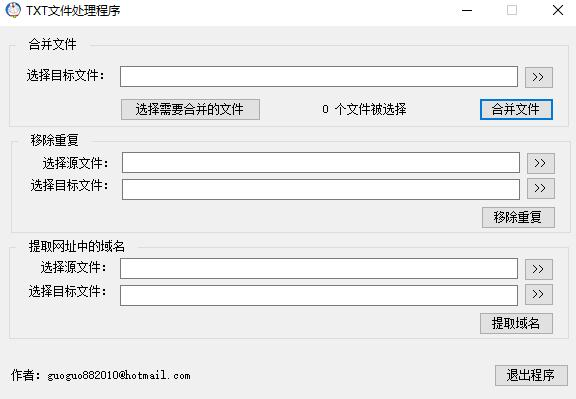
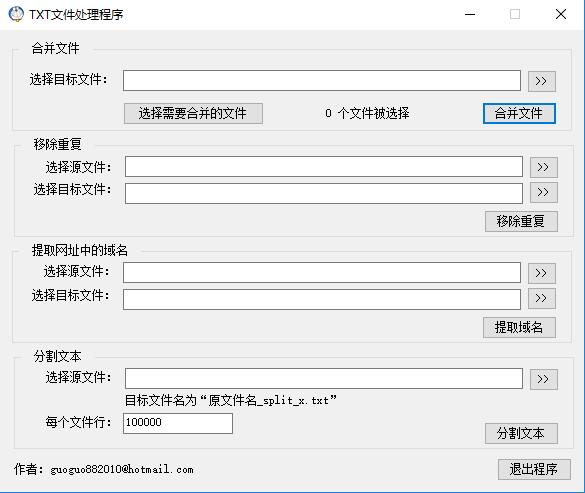
add function

diff --git a/TXTFileHandleTools/Form1.Designer.cs b/TXTFileHandleTools/Form1.Designer.cs
@@ -54,9 +54,18 @@
             this.DomainButton = new System.Windows.Forms.Button();
             this.label6 = new System.Windows.Forms.Label();
             this.DomainTargetTextBox = new System.Windows.Forms.TextBox();
+            this.groupBox4 = new System.Windows.Forms.GroupBox();
+            this.SplitSourceTextBox = new System.Windows.Forms.TextBox();
+            this.SplitSourceButton = new System.Windows.Forms.Button();
+            this.label2 = new System.Windows.Forms.Label();
+            this.SplitButton = new System.Windows.Forms.Button();
+            this.label8 = new System.Windows.Forms.Label();
+            this.label9 = new System.Windows.Forms.Label();
+            this.SplitLineTextBox = new System.Windows.Forms.TextBox();
             this.groupBox1.SuspendLayout();
             this.groupBox2.SuspendLayout();
             this.groupBox3.SuspendLayout();
+            this.groupBox4.SuspendLayout();
             this.SuspendLayout();
             // 
             // groupBox1
@@ -213,7 +222,7 @@
             // label3
             // 
             this.label3.AutoSize = true;
-            this.label3.Location = new System.Drawing.Point(12, 343);
+            this.label3.Location = new System.Drawing.Point(12, 433);
             this.label3.Name = "label3";
             this.label3.Size = new System.Drawing.Size(185, 12);
             this.label3.TabIndex = 2;
@@ -221,7 +230,7 @@
             // 
             // ExitAppButton
             // 
-            this.ExitAppButton.Location = new System.Drawing.Point(497, 338);
+            this.ExitAppButton.Location = new System.Drawing.Point(497, 428);
             this.ExitAppButton.Name = "ExitAppButton";
             this.ExitAppButton.Size = new System.Drawing.Size(75, 23);
             this.ExitAppButton.TabIndex = 3;
@@ -309,11 +318,90 @@
             this.DomainTargetTextBox.TabIndex = 14;
             this.DomainTargetTextBox.TextChanged += new System.EventHandler(this.DomainTargetTextBox_TextChanged);
             // 
+            // groupBox4
+            // 
+            this.groupBox4.Controls.Add(this.SplitLineTextBox);
+            this.groupBox4.Controls.Add(this.label9);
+            this.groupBox4.Controls.Add(this.SplitSourceTextBox);
+            this.groupBox4.Controls.Add(this.SplitSourceButton);
+            this.groupBox4.Controls.Add(this.label2);
+            this.groupBox4.Controls.Add(this.SplitButton);
+            this.groupBox4.Controls.Add(this.label8);
+            this.groupBox4.Location = new System.Drawing.Point(14, 320);
+            this.groupBox4.Name = "groupBox4";
+            this.groupBox4.Size = new System.Drawing.Size(560, 100);
+            this.groupBox4.TabIndex = 5;
+            this.groupBox4.TabStop = false;
+            this.groupBox4.Text = "　分割文本　";
+            // 
+            // SplitSourceTextBox
+            // 
+            this.SplitSourceTextBox.Location = new System.Drawing.Point(111, 18);
+            this.SplitSourceTextBox.Name = "SplitSourceTextBox";
+            this.SplitSourceTextBox.Size = new System.Drawing.Size(398, 21);
+            this.SplitSourceTextBox.TabIndex = 13;
+            // 
+            // SplitSourceButton
+            // 
+            this.SplitSourceButton.Location = new System.Drawing.Point(515, 18);
+            this.SplitSourceButton.Name = "SplitSourceButton";
+            this.SplitSourceButton.Size = new System.Drawing.Size(30, 23);
+            this.SplitSourceButton.TabIndex = 12;
+            this.SplitSourceButton.Text = ">>";
+            this.SplitSourceButton.UseVisualStyleBackColor = true;
+            this.SplitSourceButton.Click += new System.EventHandler(this.SplitSourceButton_Click);
+            // 
+            // label2
+            // 
+            this.label2.AutoSize = true;
+            this.label2.Location = new System.Drawing.Point(30, 21);
+            this.label2.Name = "label2";
+            this.label2.Size = new System.Drawing.Size(77, 12);
+            this.label2.TabIndex = 10;
+            this.label2.Text = "选择源文件：";
+            // 
+            // SplitButton
+            // 
+            this.SplitButton.Location = new System.Drawing.Point(470, 72);
+            this.SplitButton.Name = "SplitButton";
+            this.SplitButton.Size = new System.Drawing.Size(75, 23);
+            this.SplitButton.TabIndex = 15;
+            this.SplitButton.Text = "分割文本";
+            this.SplitButton.UseVisualStyleBackColor = true;
+            this.SplitButton.Click += new System.EventHandler(this.SplitButton_Click);
+            // 
+            // label8
+            // 
+            this.label8.AutoSize = true;
+            this.label8.Location = new System.Drawing.Point(30, 66);
+            this.label8.Name = "label8";
+            this.label8.Size = new System.Drawing.Size(77, 12);
+            this.label8.TabIndex = 11;
+            this.label8.Text = "每个文件行：";
+            // 
+            // label9
+            // 
+            this.label9.AutoSize = true;
+            this.label9.Location = new System.Drawing.Point(109, 44);
+            this.label9.Name = "label9";
+            this.label9.Size = new System.Drawing.Size(221, 12);
+            this.label9.TabIndex = 16;
+            this.label9.Text = "目标文件名为“原文件名_split_x.txt”";
+            // 
+            // SplitLineTextBox
+            // 
+            this.SplitLineTextBox.Location = new System.Drawing.Point(109, 63);
+            this.SplitLineTextBox.Name = "SplitLineTextBox";
+            this.SplitLineTextBox.Size = new System.Drawing.Size(110, 21);
+            this.SplitLineTextBox.TabIndex = 17;
+            this.SplitLineTextBox.Text = "100000";
+            // 
             // Form1
             // 
             this.AutoScaleDimensions = new System.Drawing.SizeF(6F, 12F);
             this.AutoScaleMode = System.Windows.Forms.AutoScaleMode.Font;
-            this.ClientSize = new System.Drawing.Size(584, 378);
+            this.ClientSize = new System.Drawing.Size(584, 462);
+            this.Controls.Add(this.groupBox4);
             this.Controls.Add(this.groupBox3);
             this.Controls.Add(this.ExitAppButton);
             this.Controls.Add(this.label3);
@@ -330,6 +418,8 @@
             this.groupBox2.PerformLayout();
             this.groupBox3.ResumeLayout(false);
             this.groupBox3.PerformLayout();
+            this.groupBox4.ResumeLayout(false);
+            this.groupBox4.PerformLayout();
             this.ResumeLayout(false);
             this.PerformLayout();
 
@@ -362,6 +452,14 @@
         private System.Windows.Forms.Label label6;
         private System.Windows.Forms.TextBox DomainTargetTextBox;
         private System.Windows.Forms.Button SelectMergeSourceFilesButton;
+        private System.Windows.Forms.GroupBox groupBox4;
+        private System.Windows.Forms.TextBox SplitSourceTextBox;
+        private System.Windows.Forms.Button SplitSourceButton;
+        private System.Windows.Forms.Label label2;
+        private System.Windows.Forms.Button SplitButton;
+        private System.Windows.Forms.Label label8;
+        private System.Windows.Forms.Label label9;
+        private System.Windows.Forms.TextBox SplitLineTextBox;
     }
 }
 

diff --git a/TXTFileHandleTools/Form1.cs b/TXTFileHandleTools/Form1.cs
@@ -21,6 +21,8 @@ namespace TXTFileHandleTools
         private string dupTargetFile = "";
         private string domainSourceFile = "";
         private string domainTargetFile = "";
+        private string splitSourceFile = "";
+        private int splitLine = 0;
 
 
         public Form1()
@@ -171,7 +173,6 @@ namespace TXTFileHandleTools
             ofd.Filter = "Text files (*.txt)|*.txt";
             ofd.RestoreDirectory = true;
             ofd.FilterIndex = 1;
-            ofd.Multiselect = true;
             if (ofd.ShowDialog() == DialogResult.OK)
             {
                 DupSourceFileTextBox.Text = dupSourceFile = ofd.FileName;
@@ -199,7 +200,6 @@ namespace TXTFileHandleTools
             ofd.Filter = "Text files (*.txt)|*.txt";
             ofd.RestoreDirectory = true;
             ofd.FilterIndex = 1;
-            ofd.Multiselect = true;
             if (ofd.ShowDialog() == DialogResult.OK)
             {
                 DomainSourceTextBox.Text = domainSourceFile = ofd.FileName;
@@ -304,5 +304,87 @@ namespace TXTFileHandleTools
            
         }
 
+        private void SplitSourceButton_Click(object sender, EventArgs e)
+        {
+            OpenFileDialog ofd = new OpenFileDialog();
+            ofd.InitialDirectory = Application.StartupPath;
+            ofd.Filter = "Text files (*.txt)|*.txt";
+            ofd.RestoreDirectory = true;
+            ofd.FilterIndex = 1;
+            if (ofd.ShowDialog() == DialogResult.OK)
+            {
+                SplitSourceTextBox.Text = splitSourceFile = ofd.FileName;
+            }
+        }
+
+        private void SplitButton_Click(object sender, EventArgs e)
+        {
+            SplitSourceTextBox.Enabled = false;
+            SplitSourceButton.Enabled = false;
+            SplitLineTextBox.Enabled = false;
+            SplitButton.Enabled = false;
+            splitLine = Convert.ToInt32(SplitLineTextBox.Text);
+
+            Task.Factory.StartNew(() =>
+            {
+                StreamReader file = new StreamReader(splitSourceFile, Encoding.UTF8);
+
+                string line = string.Empty;
+
+                int currentFileNumber = 0;
+
+                int currentRowCount = 1;
+
+                List<string> outputStrings = new List<string>();
+
+                while ((line = file.ReadLine()) != null)
+                {
+                    outputStrings.Add(line);
+
+                    if (currentRowCount >= splitLine)
+                    {
+
+                        SaveSplitTXT(outputStrings, splitSourceFile, currentFileNumber);
+
+                        currentFileNumber++;
+
+                        currentRowCount = 1;
+
+                        outputStrings.Clear();
+                    }
+                    else
+                    {
+                        currentRowCount++;
+                    }
+                }
+
+                SaveSplitTXT(outputStrings, splitSourceFile, currentFileNumber);
+
+            }).ContinueWith(t =>
+            {
+
+                this.Invoke((MethodInvoker)delegate
+                {
+                    SplitSourceTextBox.Enabled = true;
+                    SplitSourceButton.Enabled = true;
+                    SplitLineTextBox.Enabled = true;
+                    SplitButton.Enabled = true;
+                });
+
+            });
+        }
+
+        private static void SaveSplitTXT(List<string> outputStrings, string sourceFileName, int currentFileNumber)
+        {
+            string targetFile = Path.GetDirectoryName(sourceFileName) + @"\" + Path.GetFileNameWithoutExtension(sourceFileName) +"_split_" + currentFileNumber + ".txt";
+            using (StreamWriter newOutputFile = new StreamWriter(targetFile))
+            {
+                foreach (string newLine in outputStrings)
+                {
+                    newOutputFile.WriteLine(newLine);
+                }
+                newOutputFile.Close();
+            }
+        }
     }
 }
